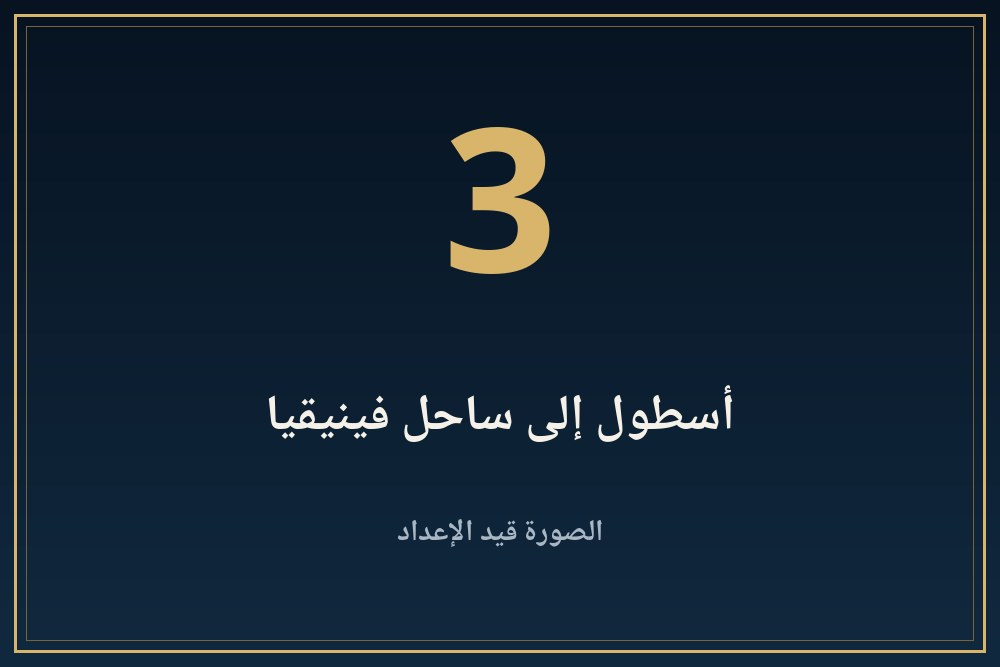
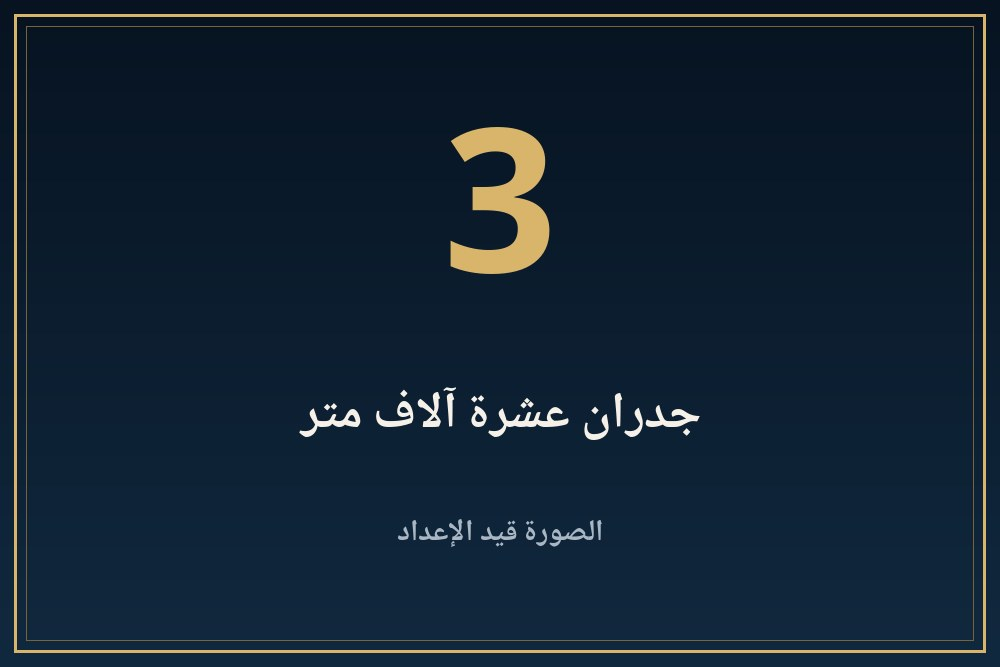
King 025: rebuilt from updated content (placeholders, audio pending)

Changed region(s): [[0.248, 0.5697, 0.744, 0.6597]]

diff --git a/kings/025-sahw-ra/index.html b/kings/025-sahw-ra/index.html
@@ -324,7 +324,7 @@ html[dir=ltr] #panav.open,#pash[dir=ltr] #panav.open{border-right:0!important;bo
 <div class="row"><span class="bdg v">موثّق</span><span>مذكور في مصدر مرقّم يمكن فتحه من قسم المراجع.</span></div>
 <div class="row"><span class="bdg d">محل خلاف</span><span>الصفحة نفسها تذكر أن الباحثين أو المصادر مختلفون فيه.</span></div>
 <div class="row"><span class="bdg u">لم يُتحقق منه</span><span>الصفحة تذكر أنه من مصدر واحد ولم يُتحقق منه في مصدر ثانٍ.</span></div></div>
-<div class="band" aria-hidden="true"></div><details class="acc k1" id="s1"><summary><img class="bnr" src="banners/b01.jpg?v=1" alt="" width="1000" height="667"><span class="n">1</span><span class="t">من هو ساحورع؟</span><span class="ch"></span></summary><div class="body"><button class="lbtn" type="button" disabled aria-disabled="true" style="opacity:.55;cursor:default"><svg viewBox="0 0 24 24" fill="currentColor" aria-hidden="true"><path d="M7 4.5v15a1 1 0 001.5.86l12-7.5a1 1 0 000-1.72l-12-7.5A1 1 0 007 4.5z"/></svg><span>التعليق الصوتي قريبًا</span></button><p><span class="bdg v">موثّق</span> يقول سليم حسن (ج1 ص254-255) إن ساحورع «يعد من الملوك الحربيين».<sup><a href="#r1">[1]</a></sup></p></div></details><details class="acc k2" id="s2"><summary><img class="bnr" src="banners/b02.jpg?v=1" alt="" loading="lazy" width="1000" height="667"><span class="n">2</span><span class="t">لوحة سيناء</span><span class="ch"></span></summary><div class="body"><button class="lbtn" type="button" disabled aria-disabled="true" style="opacity:.55;cursor:default"><svg viewBox="0 0 24 24" fill="currentColor" aria-hidden="true"><path d="M7 4.5v15a1 1 0 001.5.86l12-7.5a1 1 0 000-1.72l-12-7.5A1 1 0 007 4.5z"/></svg><span>التعليق الصوتي قريبًا</span></button><p><span class="bdg v">موثّق</span> يذكر سليم حسن (ص254-255) لوحة في سيناء تُظهر الملك يضرب الآسيويين، ونقشا باسمه في توماس بالنوبة.<sup><a href="#r1">[1]</a></sup></p></div></details><details class="acc k3" id="s3"><summary><img class="bnr" src="banners/b03.jpg?v=1" alt="" loading="lazy" width="1000" height="667"><span class="n">3</span><span class="t">أسطول إلى ساحل فينيقيا</span><span class="ch"></span></summary><div class="body"><button class="lbtn" type="button" disabled aria-disabled="true" style="opacity:.55;cursor:default"><svg viewBox="0 0 24 24" fill="currentColor" aria-hidden="true"><path d="M7 4.5v15a1 1 0 001.5.86l12-7.5a1 1 0 000-1.72l-12-7.5A1 1 0 007 4.5z"/></svg><span>التعليق الصوتي قريبًا</span></button><p><span class="bdg v">موثّق</span> يذكر سليم حسن (ص254-255) أنه أرسل أسطولا إلى ساحل فينيقيا.<sup><a href="#r1">[1]</a></sup></p></div></details><details class="acc k4" id="s4"><summary><img class="bnr" src="banners/b04.jpg?v=1" alt="" loading="lazy" width="1000" height="667"><span class="n">4</span><span class="t">طبيب الملك وبابا المقبرة</span><span class="ch"></span></summary><div class="body"><button class="lbtn" type="button" disabled aria-disabled="true" style="opacity:.55;cursor:default"><svg viewBox="0 0 24 24" fill="currentColor" aria-hidden="true"><path d="M7 4.5v15a1 1 0 001.5.86l12-7.5a1 1 0 000-1.72l-12-7.5A1 1 0 007 4.5z"/></svg><span>التعليق الصوتي قريبًا</span></button><p><span class="bdg v">موثّق</span> يروي سليم حسن (ص255) قصة رئيس الأطباء ني عنخ سخمت الذي أمره الملك بتجهيز بابين وهميين من حجر طرة لمقبرته، وفحصهما الملك بنفسه كل يوم وصقلهما بالأزرق بنفسه. ونص القصة مترجم بالكامل عند سليم حسن.<sup><a href="#r1">[1]</a></sup></p></div></details><details class="acc k1" id="s5"><summary><img class="bnr" src="banners/b05.jpg?v=1" alt="" loading="lazy" width="1000" height="667"><span class="n">5</span><span class="t">ما لا نعرفه</span><span class="ch"></span></summary><div class="body"><button class="lbtn" type="button" disabled aria-disabled="true" style="opacity:.55;cursor:default"><svg viewBox="0 0 24 24" fill="currentColor" aria-hidden="true"><path d="M7 4.5v15a1 1 0 001.5.86l12-7.5a1 1 0 000-1.72l-12-7.5A1 1 0 007 4.5z"/></svg><span>التعليق الصوتي قريبًا</span></button><p><span class="bdg u">لم يُتحقق منه</span> لا نعرف مدة حكمه من المصادر التي قرأناها، ولا ما بقي من هرمه. ولم نقرأ بعد دراسة مصرية ثانية عنه.</p></div></details><details class="acc k4" id="refs"><summary><img class="bnr" src="banners/b06.jpg?v=1" alt="" loading="lazy" width="1000" height="667"><span class="n">6</span><span class="t">المراجع</span><span class="ch"></span></summary><div class="body"><button class="lbtn" type="button" disabled aria-disabled="true" style="opacity:.55;cursor:default"><svg viewBox="0 0 24 24" fill="currentColor" aria-hidden="true"><path d="M7 4.5v15a1 1 0 001.5.86l12-7.5a1 1 0 000-1.72l-12-7.5A1 1 0 007 4.5z"/></svg><span>التعليق الصوتي قريبًا</span></button><p><b>مصادر فتحتُ صفحاتها وقرأتها:</b></p><ol><li id="r1" dir="auto">سليم حسن، موسوعة مصر القديمة، ج1، الفصل 15: <a dir="ltr" style="display:inline-block;overflow-wrap:anywhere" href="https://archive.org/details/20201104_20201104_1559" rel="noopener" target="_blank">archive.org/details/20201104_20201104_1559</a></li></ol><div class="flag"><b>تنبيه:</b> عدد المصادر المصرية المفتوحة لهذه الصفحة واحد فقط. لا نضيف تفاصيل لم تثبت في مصدر فتحناه وقرأنا نصه، وحيث يختلف المصدران ننسب كل رأي لصاحبه.</div></div></details></article><aside class="abt" aria-label="عن هذه الصفحة"><h3>عن هذه الصفحة</h3><ul><li><b>المحتوى</b><span>جزء من موسوعة بر عنخ التعليمية. التواريخ والتفسيرات وفق المراجع المتاحة، وقد تختلف التفاصيل بين الدراسات.</span></li><li><b>الصور</b><span>صور هذه الصفحة أماكن حجز مؤقتة إلى أن تُضاف الصور الفنية.</span></li><li><b>الصوت</b><span>التعليق الصوتي قيد الإعداد.</span></li></ul></aside><a class="back" href="/kings/">← تصفح المزيد</a><a class="back" href="/">العودة إلى الرئيسية</a><dialog id="lb"><img alt=""><p></p><button type="button">إغلاق</button></dialog>
+<div class="band" aria-hidden="true"></div><details class="acc k1" id="s1"><summary><img class="bnr" src="banners/b01.jpg?v=1" alt="" width="1000" height="667"><span class="n">1</span><span class="t">من هو ساحورع؟</span><span class="ch"></span></summary><div class="body"><button class="lbtn" type="button" disabled aria-disabled="true" style="opacity:.55;cursor:default"><svg viewBox="0 0 24 24" fill="currentColor" aria-hidden="true"><path d="M7 4.5v15a1 1 0 001.5.86l12-7.5a1 1 0 000-1.72l-12-7.5A1 1 0 007 4.5z"/></svg><span>التعليق الصوتي قريبًا</span></button><p><span class="bdg v">موثّق</span> يقول صالح (ص199) إنه ولد خنتكاوس واعتلى العرش بعد وسركاف. ويقول كتاب الميت (ص32) إن حكمه قُدّر بنحو خمس عشرة سنة، وإن مجموعته الجنائزية في أبو صير أنتجت نقوشا جميلة من الحجر الجيري وأرضيات من البازلت وأعمدة من الجرانيت بشكل النخيل، ومعبده للشمس لم يُنقّب. ويقول نور الدين (ص714) إن اسمه الحوري «نب خعو».<sup><a href="#r1">[1]</a><a href="#r2">[2]</a><a href="#r3">[3]</a></sup></p></div></details><details class="acc k2" id="s2"><summary><img class="bnr" src="banners/b02.jpg?v=1" alt="" loading="lazy" width="1000" height="667"><span class="n">2</span><span class="t">أمه: من قال ماذا؟</span><span class="ch"></span></summary><div class="body"><button class="lbtn" type="button" disabled aria-disabled="true" style="opacity:.55;cursor:default"><svg viewBox="0 0 24 24" fill="currentColor" aria-hidden="true"><path d="M7 4.5v15a1 1 0 001.5.86l12-7.5a1 1 0 000-1.72l-12-7.5A1 1 0 007 4.5z"/></svg><span>التعليق الصوتي قريبًا</span></button><p><span class="bdg d">محل خلاف</span> يقول صالح (ص199) إن خنتكاوس ابنة منكاورع أم ولدها ساحورع. ويقول كتاب الميت (ص32) إن منكاورع نفسه أبو ساحورع ونفر إر كا رع، وأمهما خنتكاوس. فالمصدران يتفقان على أنها أمه ويختلفان في أنها ابنة منكاورع أو زوجته.<sup><a href="#r1">[1]</a><a href="#r3">[3]</a></sup></p></div></details><details class="acc k3" id="s3"><summary><img class="bnr" src="banners/b03.jpg?v=1" alt="" loading="lazy" width="1000" height="667"><span class="n">3</span><span class="t">جدران عشرة آلاف متر</span><span class="ch"></span></summary><div class="body"><button class="lbtn" type="button" disabled aria-disabled="true" style="opacity:.55;cursor:default"><svg viewBox="0 0 24 24" fill="currentColor" aria-hidden="true"><path d="M7 4.5v15a1 1 0 001.5.86l12-7.5a1 1 0 000-1.72l-12-7.5A1 1 0 007 4.5z"/></svg><span>التعليق الصوتي قريبًا</span></button><p><span class="bdg v">موثّق</span> يقول صالح (ص206) إن بورخارت قدّر أن مساحة الجدران المعدة للنقش في مجموعة ساحورع بلغت نحو عشرة آلاف متر مربع، لم يبق منها إلا 150 مترا مربعا. وتصوّر المناظر انتصارات الملوك وأعيادهم وحياتهم، والسفن الكبيرة المحملة بكتل الجرانيت من أسوان، والسفن البحرية بين مصر وفينيقيا بما فيها الدببة.<sup><a href="#r1">[1]</a></sup></p></div></details><details class="acc k4" id="s4"><summary><img class="bnr" src="banners/b04.jpg?v=1" alt="" loading="lazy" width="1000" height="667"><span class="n">4</span><span class="t">مراكب فينيقيا</span><span class="ch"></span></summary><div class="body"><button class="lbtn" type="button" disabled aria-disabled="true" style="opacity:.55;cursor:default"><svg viewBox="0 0 24 24" fill="currentColor" aria-hidden="true"><path d="M7 4.5v15a1 1 0 001.5.86l12-7.5a1 1 0 000-1.72l-12-7.5A1 1 0 007 4.5z"/></svg><span>التعليق الصوتي قريبًا</span></button><p><span class="bdg d">محل خلاف</span> يقول صالح (ص209) إن أحد فناءي معبد الملك صوّر مراكب بحرية عادت من فينيقيا محملة بالرجال والحيوانات، وبين شخصياتها المترجم الذي كان يقوم مقام السفير. ويظن بعض الباحثين أنها حملت عروسا فينيقية، وإن صح ذلك فهو أقدم دليل على المصاهرات للتقارب بين الشعوب. وهذا ظن لا يثبته نص.<sup><a href="#r1">[1]</a></sup></p></div></details><details class="acc k1" id="s5"><summary><img class="bnr" src="banners/b05.jpg?v=1" alt="" loading="lazy" width="1000" height="667"><span class="n">5</span><span class="t">الحملة الغربية</span><span class="ch"></span></summary><div class="body"><button class="lbtn" type="button" disabled aria-disabled="true" style="opacity:.55;cursor:default"><svg viewBox="0 0 24 24" fill="currentColor" aria-hidden="true"><path d="M7 4.5v15a1 1 0 001.5.86l12-7.5a1 1 0 000-1.72l-12-7.5A1 1 0 007 4.5z"/></svg><span>التعليق الصوتي قريبًا</span></button><p><span class="bdg v">موثّق</span> يقول صالح (ص209) إن الملكين ساحورع وونيس قاما بنشاط عسكري ضد فريق من قبائل الصحراء الغربية، وصوّرا أمراءهم وزوجاتهم وأولادهم مستسلمين على جدران معبديهما، وصادر جيش ساحورع آلاف المواشي. ويقول كتاب الميت (ص32) إن نقوشه تشهد بانتصاراته في ليبيا وآسيا.<sup><a href="#r1">[1]</a><a href="#r3">[3]</a></sup></p></div></details><details class="acc k2" id="s6"><summary><img class="bnr" src="banners/b06.jpg?v=1" alt="" loading="lazy" width="1000" height="667"><span class="n">6</span><span class="t">بونت وسيناء</span><span class="ch"></span></summary><div class="body"><button class="lbtn" type="button" disabled aria-disabled="true" style="opacity:.55;cursor:default"><svg viewBox="0 0 24 24" fill="currentColor" aria-hidden="true"><path d="M7 4.5v15a1 1 0 001.5.86l12-7.5a1 1 0 000-1.72l-12-7.5A1 1 0 007 4.5z"/></svg><span>التعليق الصوتي قريبًا</span></button><p><span class="bdg v">موثّق</span> يقول كتاب الميت (ص32) إن اهتمامه بسيناء والصحراء الشرقية دفعه إلى إرسال بعثة إلى بلاد بونت، التي يُظن الآن أنها على الساحل الإفريقي قرب الطرف الجنوبي للبحر الأحمر.<sup><a href="#r3">[3]</a></sup></p></div></details><details class="acc k3" id="s7"><summary><img class="bnr" src="banners/b07.jpg?v=1" alt="" loading="lazy" width="1000" height="667"><span class="n">7</span><span class="t">مشهد الصيد</span><span class="ch"></span></summary><div class="body"><button class="lbtn" type="button" disabled aria-disabled="true" style="opacity:.55;cursor:default"><svg viewBox="0 0 24 24" fill="currentColor" aria-hidden="true"><path d="M7 4.5v15a1 1 0 001.5.86l12-7.5a1 1 0 000-1.72l-12-7.5A1 1 0 007 4.5z"/></svg><span>التعليق الصوتي قريبًا</span></button><p><span class="bdg v">موثّق</span> يقول دوروثيا أرنولد في كتاب الميت (ص116) إن نقش صيد الملك ساحورع في الصحراء تحفة من فن النقش الملكي، كان في الممر جنوب الفناء المركزي للمعبد، وقد تحول فيه الصف البسيط للأشكال إلى كتلة مكتظة من الحيوانات المصابة والخائفة داخل حظيرة من الشباك.<sup><a href="#r3">[3]</a></sup></p></div></details><details class="acc k4" id="s8"><summary><img class="bnr" src="banners/b08.jpg?v=1" alt="" loading="lazy" width="1000" height="667"><span class="n">8</span><span class="t">الأعمدة</span><span class="ch"></span></summary><div class="body"><button class="lbtn" type="button" disabled aria-disabled="true" style="opacity:.55;cursor:default"><svg viewBox="0 0 24 24" fill="currentColor" aria-hidden="true"><path d="M7 4.5v15a1 1 0 001.5.86l12-7.5a1 1 0 000-1.72l-12-7.5A1 1 0 007 4.5z"/></svg><span>التعليق الصوتي قريبًا</span></button><p><span class="bdg v">موثّق</span> يقول كتاب الميت (ص61) إن أعمدة الجرانيت في أهرام الأسرة الخامسة كانت إما بردية (ني وسر رع) أو في الأغلب نخلية (ساحورع وإسيسي وونيس).<sup><a href="#r3">[3]</a></sup></p></div></details><details class="acc k1" id="s9"><summary><img class="bnr" src="banners/b09.jpg?v=1" alt="" loading="lazy" width="1000" height="667"><span class="n">9</span><span class="t">ما لا نعرفه</span><span class="ch"></span></summary><div class="body"><button class="lbtn" type="button" disabled aria-disabled="true" style="opacity:.55;cursor:default"><svg viewBox="0 0 24 24" fill="currentColor" aria-hidden="true"><path d="M7 4.5v15a1 1 0 001.5.86l12-7.5a1 1 0 000-1.72l-12-7.5A1 1 0 007 4.5z"/></svg><span>التعليق الصوتي قريبًا</span></button><p><span class="bdg u">لم يُتحقق منه</span> لا نعرف الأرقام الدقيقة لهرمه، ولم نقرأ بعد دراسة حديثة عن الدببة ولا عن هوية العروس. ولم تُنقّب معبد شمسه (كتاب الميت ص32)، وسنضيف ما نقرؤه.</p></div></details><details class="acc k4" id="refs"><summary><img class="bnr" src="banners/b10.jpg?v=1" alt="" loading="lazy" width="1000" height="667"><span class="n">10</span><span class="t">المراجع</span><span class="ch"></span></summary><div class="body"><button class="lbtn" type="button" disabled aria-disabled="true" style="opacity:.55;cursor:default"><svg viewBox="0 0 24 24" fill="currentColor" aria-hidden="true"><path d="M7 4.5v15a1 1 0 001.5.86l12-7.5a1 1 0 000-1.72l-12-7.5A1 1 0 007 4.5z"/></svg><span>التعليق الصوتي قريبًا</span></button><p><b>مصادر فتحتُ صفحاتها وقرأتها:</b></p><ol><li id="r1" dir="auto">عبد العزيز صالح، الشرق الأدنى القديم ج1 (مصر والعراق)، أرقام صفحات PDF: <a dir="ltr" style="display:inline-block;overflow-wrap:anywhere" href="https://archive.org/details/20210510_20210510_0037" rel="noopener" target="_blank">archive.org/details/20210510_20210510_0037</a></li><li id="r2" dir="auto">عبد الحليم نور الدين، آثار وحضارة مصر القديمة ج1، أرقام صفحات PDF: <a dir="ltr" style="display:inline-block;overflow-wrap:anywhere" href="https://archive.org/details/AAlexandrina-117303" rel="noopener" target="_blank">archive.org/details/AAlexandrina-117303</a></li><li id="r3" dir="auto">The Metropolitan Museum of Art, Egyptian Art in the Age of the Pyramids, 1999 (فصول كوزلوف وأرنولد وزيجلر وجريمال): <a dir="ltr" style="display:inline-block;overflow-wrap:anywhere" href="https://www.metmuseum.org/met-publications/egyptian-art-in-the-age-of-the-pyramids" rel="noopener" target="_blank">www.metmuseum.org/met-publications/egyptian-art-in-the-age-of-the-pyramids</a></li></ol></div></details></article><aside class="abt" aria-label="عن هذه الصفحة"><h3>عن هذه الصفحة</h3><ul><li><b>المحتوى</b><span>جزء من موسوعة بر عنخ التعليمية. التواريخ والتفسيرات وفق المراجع المتاحة، وقد تختلف التفاصيل بين الدراسات.</span></li><li><b>الصور</b><span>صور هذه الصفحة أماكن حجز مؤقتة إلى أن تُضاف الصور الفنية.</span></li><li><b>الصوت</b><span>التعليق الصوتي قيد الإعداد.</span></li></ul></aside><a class="back" href="/kings/">← تصفح المزيد</a><a class="back" href="/">العودة إلى الرئيسية</a><dialog id="lb"><img alt=""><p></p><button type="button">إغلاق</button></dialog>
 <script>(function(){var A=function(){return document.querySelectorAll("details.acc")};
 document.getElementById("all").onclick=function(){A().forEach(function(d){d.open=true})};
 document.getElementById("none").onclick=function(){A().forEach(function(d){d.open=false})};
@@ -332,7 +332,7 @@ function go(h){var e=h&&document.getElementById(h.slice(1));if(!e)return;var d=e
 document.addEventListener("click",function(e){var a=e.target.closest&&e.target.closest('a[href^="#"]');if(a){go(a.getAttribute("href"))}});
 if(location.hash)go(location.hash);
 var d=document.getElementById("lb");if(!d||!d.showModal)return;var im=d.querySelector("img"),p=d.querySelector("p");document.addEventListener("click",function(e){var t=e.target;if(t.tagName=="IMG"&&t.closest(".fig")){im.src=t.src;im.alt=t.alt;p.textContent=t.closest("figure").querySelector("figcaption").innerText;d.showModal()}else if(t==d||t.tagName=="BUTTON"&&d.contains(t)){d.close()}})})();</script><div class="pbar" id="pbar"></div><div class="pl" id="pl" role="region" aria-label="مشغّل الاستماع"><div class="in"><button class="pp" id="pp" type="button" aria-label="تشغيل"><svg viewBox="0 0 24 24" fill="currentColor" aria-hidden="true"><path d="M7 4.5v15a1 1 0 001.5.86l12-7.5a1 1 0 000-1.72l-12-7.5A1 1 0 007 4.5z"/></svg></button><div class="mid"><div class="ttl"><span id="tt">استماع</span> <i>صوت اصطناعي</i></div><input id="sk" type="range" min="0" max="1000" value="0" aria-label="موضع التشغيل"><div class="tm"><span id="cur">0:00</span><span id="dur">0:00</span></div></div><div class="ex"><button id="bk" type="button" aria-label="رجوع 10 ثوانٍ">−10</button><button id="fw" type="button" aria-label="تقدم 10 ثوانٍ">+10</button><button id="sp" class="sp" type="button" aria-label="سرعة التشغيل">1×</button><button id="cl" type="button" aria-label="إغلاق المشغّل">✕</button></div><p class="err" id="er" role="alert" hidden>تعذر تحميل الملف الصوتي. حاول لاحقًا.</p></div><div aria-live="polite" id="st" style="position:absolute;left:-9999px"></div><audio id="au" preload="none"></audio></div></main><script>(function(){
-var S={"s1": ["من هو ساحورع؟", 1], "s2": ["لوحة سيناء", 1], "s3": ["أسطول إلى ساحل فينيقيا", 1], "s4": ["طبيب الملك وبابا المقبرة", 1], "s5": ["ما لا نعرفه", 1], "refs": ["المراجع", 1]},$=function(i){return document.getElementById(i)},au=$("au"),pl=$("pl"),pp=$("pp"),sk=$("sk"),P="<svg viewBox=\"0 0 24 24\" fill=\"currentColor\" aria-hidden=\"true\"><path d=\"M7 4.5v15a1 1 0 001.5.86l12-7.5a1 1 0 000-1.72l-12-7.5A1 1 0 007 4.5z\"/></svg>",Q="<svg viewBox=\"0 0 24 24\" fill=\"currentColor\" aria-hidden=\"true\"><rect x=\"5.5\" y=\"4\" width=\"4.5\" height=\"16\" rx=\"1.2\"/><rect x=\"14\" y=\"4\" width=\"4.5\" height=\"16\" rx=\"1.2\"/></svg>",cur=null,part=1,seeking=false;
+var S={"s1": ["من هو ساحورع؟", 1], "s2": ["أمه: من قال ماذا؟", 1], "s3": ["جدران عشرة آلاف متر", 1], "s4": ["مراكب فينيقيا", 1], "s5": ["الحملة الغربية", 1], "s6": ["بونت وسيناء", 1], "s7": ["مشهد الصيد", 1], "s8": ["الأعمدة", 1], "s9": ["ما لا نعرفه", 1], "refs": ["المراجع", 1]},$=function(i){return document.getElementById(i)},au=$("au"),pl=$("pl"),pp=$("pp"),sk=$("sk"),P="<svg viewBox=\"0 0 24 24\" fill=\"currentColor\" aria-hidden=\"true\"><path d=\"M7 4.5v15a1 1 0 001.5.86l12-7.5a1 1 0 000-1.72l-12-7.5A1 1 0 007 4.5z\"/></svg>",Q="<svg viewBox=\"0 0 24 24\" fill=\"currentColor\" aria-hidden=\"true\"><rect x=\"5.5\" y=\"4\" width=\"4.5\" height=\"16\" rx=\"1.2\"/><rect x=\"14\" y=\"4\" width=\"4.5\" height=\"16\" rx=\"1.2\"/></svg>",cur=null,part=1,seeking=false;
 function fmt(t){if(!isFinite(t))return"0:00";var m=Math.floor(t/60),s=Math.floor(t%60);return m+":"+(s<10?"0":"")+s}
 function btns(){document.querySelectorAll(".lbtn").forEach(function(b){var on=b.dataset.s===cur&&!au.paused;b.classList.toggle("on",on);b.querySelector("span").textContent=on?"إيقاف مؤقت":(b.dataset.s===cur&&au.currentTime>1?"أكمل الاستماع":"استمع لهذا القسم");b.querySelector("svg").outerHTML=on?Q:P})}
 function ui(){var pa=au.paused;pp.innerHTML=pa?P:Q;pp.setAttribute("aria-label",pa?"تشغيل":"إيقاف مؤقت");btns()}
